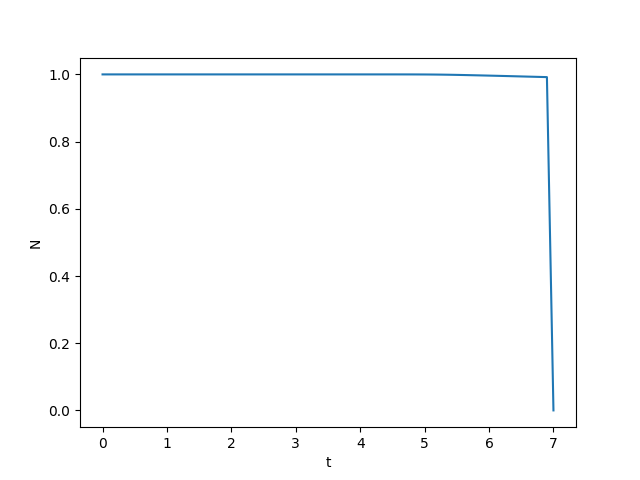
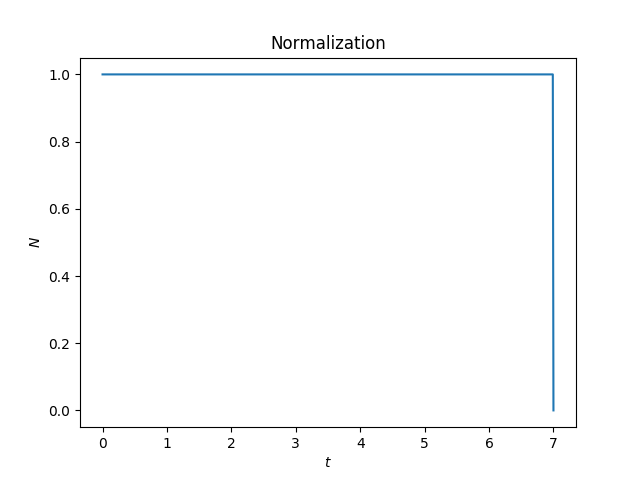
updated graphs

Changed region(s): [[0.7188, 0.125, 0.875, 0.8125], [0.4062, 0.0625, 0.5938, 0.125], [0.0312, 0.5, 0.0625, 0.5312]]

diff --git a/2DTDSE.py b/2DTDSE.py
@@ -16,14 +16,76 @@ class Schrodinger(object):
         self.psi0 = self.psi0 / np.sqrt(self.normalization(self.psi0))
         self.V = self.set_potential(self.X, self.Y)
 
+    def plot_average_y(self, PSI):
+        average_y = np.zeros(self.T)
+        average_y2 = np.zeros(self.T)
+
+        for n in range(0, self.T - 1):
+            psi = PSI[:, n]
+            average_y[n] = trapz(trapz(self.Y * abs(psi.reshape(self.J, self.L) ** 2), self.x, dx=self.x), self.y, dx=self.dy)
+            average_y2[n] = trapz(trapz(self.Y ** 2 * abs(psi.reshape(self.J, self.L) ** 2), self.x, dx=self.x), self.y, dx=self.dy)
+
+        delta_y = np.sqrt(average_y2 - average_y)
+
+        fig, ax = plt.subplots(1, 3, figsize=(12, 7))
+        ax[0].plot(self.t, average_y)
+        ax[0].set_title('Average y')
+        ax[0].set_xlabel('$t$')
+        ax[0].set_ylabel('$y$')
+        ax[1].plot(self.t, average_y2)
+        ax[1].set_title('Average $y^2$')
+        ax[1].set_xlabel('$t$')
+        ax[1].set_ylabel('$y^2$')
+        ax[2].plot(self.t, delta_y)
+        ax[2].set_title('Uncertainity $\Delta x$')
+        ax[2].set_xlabel('$t$')
+        ax[2].set_ylabel('$\Delta y$')
+        fig.savefig('Uncertainty_y', dpi=None, facecolor='w', edgecolor='w',
+        orientation='portrait', papertype=None, format=None,
+        transparent=False, bbox_inches=None, pad_inches=0.1,
+        frameon=None, metadata=None)
+        plt.show()
+
+    def plot_average_x(self, PSI):
+        average_x = np.zeros(self.T)
+        average_x2 = np.zeros(self.T)
+
+        for n in range(0, self.T - 1):
+            psi = PSI[:, n]
+            average_x[n] = trapz(trapz(self.X * abs(psi.reshape(self.J, self.L) ** 2), self.x, dx=self.x), self.y, dx=self.dy)
+            average_x2[n] = trapz(trapz(self.X ** 2 * abs(psi.reshape(self.J, self.L) ** 2), self.x, dx=self.x), self.y, dx=self.dy)
+
+        delta_x = np.sqrt(average_x2 - average_x)
+
+        fig, ax = plt.subplots(1, 3, figsize=(12, 7))
+        ax[0].plot(self.t, average_x)
+        ax[0].set_title('Average $x$')
+        ax[0].set_xlabel('$t$')
+        ax[0].set_ylabel('$x$')
+        ax[1].plot(self.t, average_x2)
+        ax[1].set_title('Average $x^2$')
+        ax[1].set_xlabel('$t$')
+        ax[1].set_ylabel('$x^2$')
+        ax[2].plot(self.t, delta_x)
+        ax[2].set_title('Uncertainity $\Delta x$')
+        ax[2].set_xlabel('$t$')
+        ax[2].set_ylabel('$\Delta x$')
+        fig.savefig('Uncertainty_x', dpi=None, facecolor='w', edgecolor='w',
+        orientation='portrait', papertype=None, format=None,
+        transparent=False, bbox_inches=None, pad_inches=0.1,
+        frameon=None, metadata=None)
+        plt.show()
+
     def plot_normalization(self, PSI):
         normalization = np.zeros(self.T)
+
         for n in range(0, self.T - 1):
             psi = PSI[:, n]
             normalization[n] = self.normalization(psi.reshape(self.J, self.L))
         plt.plot(self.t, normalization)
-        plt.xlabel('t')
-        plt.ylabel('N')
+        plt.xlabel('$t$')
+        plt.ylabel('$N$')
+        plt.title('Normalization')
         plt.savefig('Normalization.png')
         plt.show()
 
@@ -121,17 +183,17 @@ if __name__ == '__main__':
     args = {
         'nx': 100,
         'ny': 100, 
-        'x0': -20, 
-        'xf': 20, 
-        'y0': -20,
-        'yf': 20,
-        'xa': 0, 
-        'ya': 0,
+        'x0': -40, 
+        'xf': 40, 
+        'y0': -40,
+        'yf': 40,
+        'xa': 4, 
+        'ya': 3,
         't0': 0, 
         'tf': 7.0,
-        'dt': 0.1, 
-        'sigmax': 1.0, 
-        'sigmay': 1.0,
+        'dt': 0.01, 
+        'sigmax': 2.0, 
+        'sigmay': 2.0,
         'k0x': 0,
         'k0y': 0,
         'mass': 0.5,
@@ -139,28 +201,40 @@ if __name__ == '__main__':
         }
     schrodinger = Schrodinger(**args)
     PSI = schrodinger.solve()
-    X, Y = schrodinger.get_meshgrid()
-    J, L = schrodinger.get_shape()
 
-    def update(i, PSI, surf):
-        ax.clear()
-        psi = abs(PSI[:, i].reshape(J, L) ** 2)
-        surf = ax.plot_surface(X, Y, psi, \
-        rstride=1, cstride=1, cmap='plasma')
-        ax.set_zlim(0, 0.3)
-        return surf
-    
-    frames = PSI.shape[1]
-    fig = plt.figure()
-    ax = fig.add_subplot(111, projection='3d')
-    surf = ax.plot_surface(X, Y, abs(PSI[:, 0].reshape(J, L) ** 2), \
+    play_video = False
+
+    if play_video:
+        X, Y = schrodinger.get_meshgrid()
+        J, L = schrodinger.get_shape()
+
+        def update(i, PSI, surf):
+            ax.clear()
+            psi = abs(PSI[:, i].reshape(J, L) ** 2)
+            surf = ax.plot_surface(X, Y, psi, \
             rstride=1, cstride=1, cmap='plasma')
-    ax.set_zlim(0, 0.3)
-    ani = animation.FuncAnimation(fig, update, frames=frames,\
-            fargs=(PSI, surf), \
-            interval=30, blit=False)
+            ax.set_zlim(0, 0.3)
+            ax.set_xlabel('$x$')
+            ax.set_ylabel('$y$')
+            ax.set_zlabel('$|\Psi(x, y)|^2$')
+            return surf
+        
+        frames = PSI.shape[1]
+        fig = plt.figure()
+        ax = fig.add_subplot(111, projection='3d')
+        ax.set_xlabel('$x$')
+        ax.set_ylabel('$y$')
+        ax.set_zlabel('$|\Psi(x, y)|^2$')
+        surf = ax.plot_surface(X, Y, abs(PSI[:, 0].reshape(J, L) ** 2), \
+                rstride=1, cstride=1, cmap='plasma')
+        ax.set_zlim(0, 0.3)
+        ani = animation.FuncAnimation(fig, update, frames=frames,\
+                fargs=(PSI, surf), \
+                interval=30, blit=False)
 
-    plt.show()
+        plt.show()
 
     schrodinger.plot_normalization(PSI)
+    schrodinger.plot_average_x(PSI)
+    schrodinger.plot_average_y(PSI)
     
